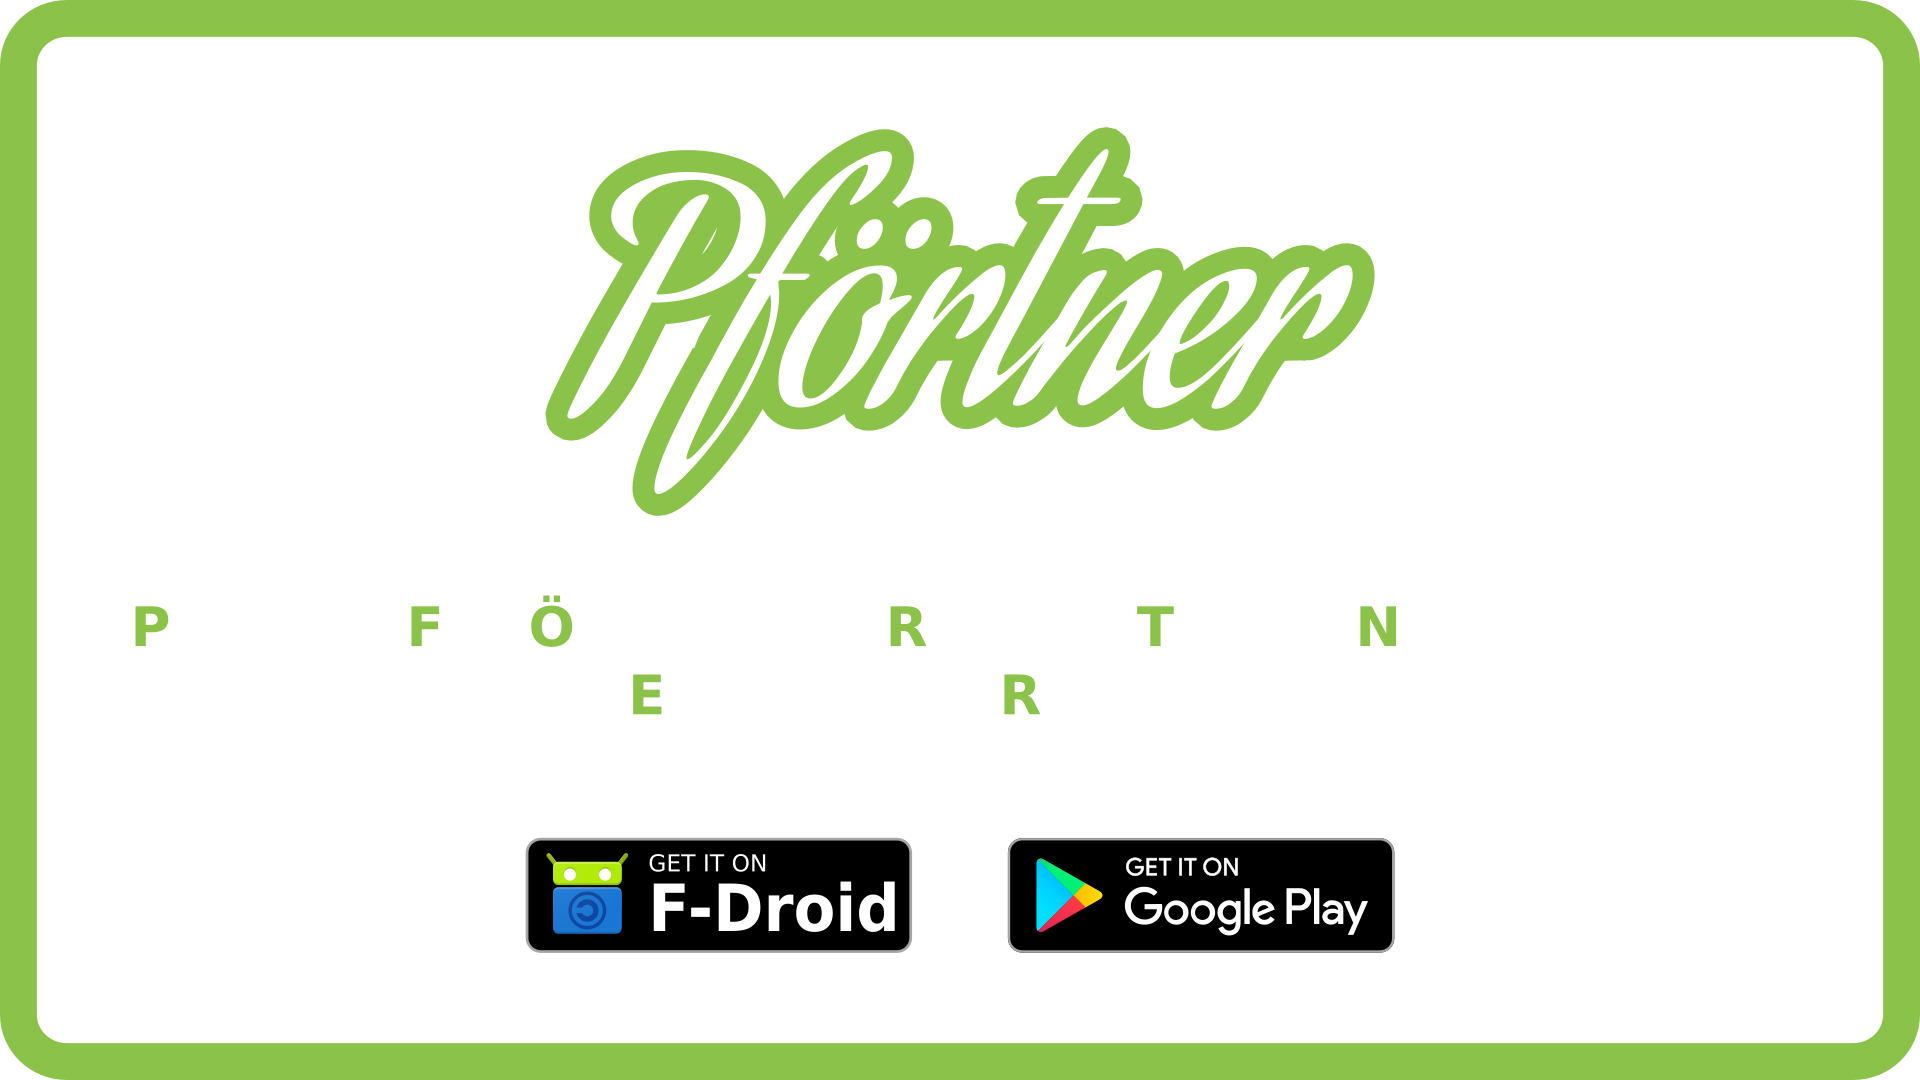
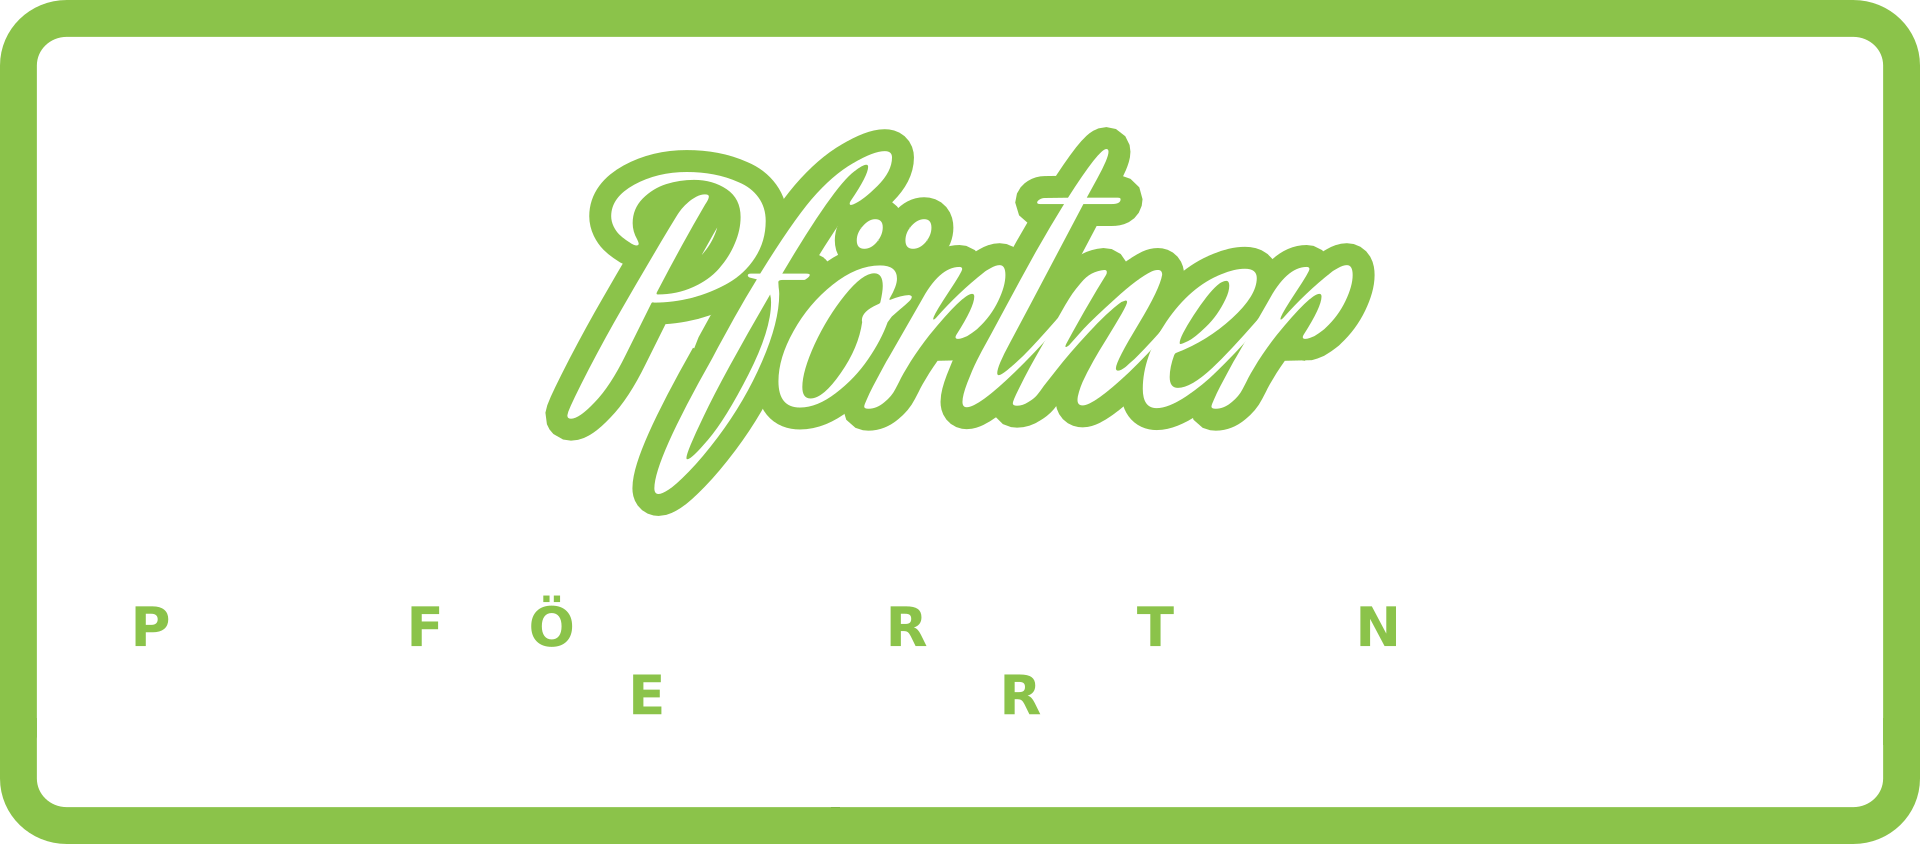
Remove mentions of APK releases (for now)

diff --git a/README.md b/README.md
@@ -60,14 +60,6 @@ docker run pfoertnerserver:1.0
 
 The server needs to either be accessible from the internet or all devices need to be on the same network.
 
-# Old project, Cleanup in progress!
-
-# How to build & self-host
-
-The APKs distributed on GitHub belong to a demo instance of this software.
-To build and self-host your own version you need to setup a Firebase project
-and host a Nodejs service.
-
 ## Step 0: Private clone / fork
 
 To build your own instance of the Pfoertner service, we will need to add a few
